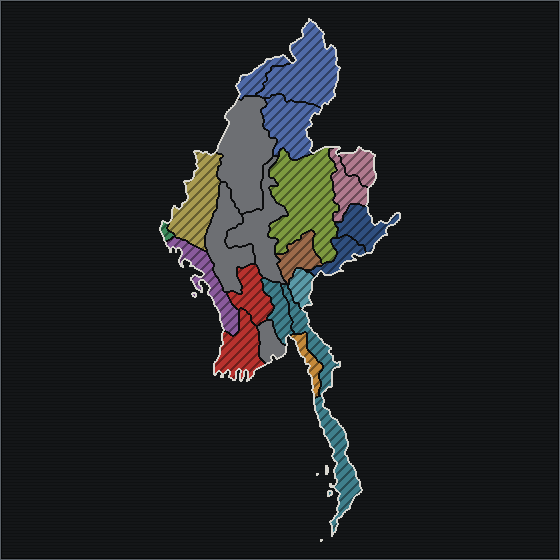
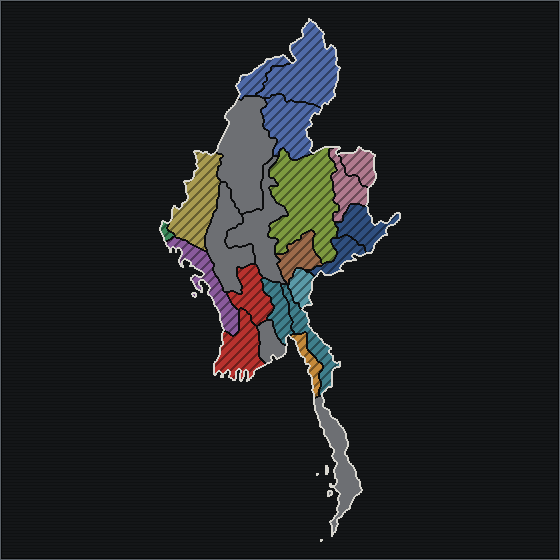
Burma: Loyal status for groups not yet in revolt
- Shan, Kachin and Chin start Loyal (Union grey on the map) until their country appears, then turn Active
- Tanintharyi drawn as Union-held
- Legend row for Loyal

Changed region(s): [[0.5464, 0.6982, 0.6679, 0.9107], [0.5768, 0.9107, 0.6071, 0.9411]]

diff --git a/_tools/burma_struggle_map/build_burma_window.py b/_tools/burma_struggle_map/build_burma_window.py
@@ -129,8 +129,8 @@ def build_gui():
         else:
             n = STATE_GROUP[st["group"]]
             a(button(f"BUR_State_{sid}", f"GFX_BUR_state_{sid}", x, y, f"BUR_GROUP_TT_{n}"))
-    for i, key in enumerate(["ACTIVE", "INTEGRATED", "SUBJUGATED", "AUTONOMOUS", "JOINED_BCP", "UNKNOWN"]):
-        y = MAP_Y + MAP_H - 18 * 6 - 8 + i * 18
+    for i, key in enumerate(["ACTIVE", "INTEGRATED", "SUBJUGATED", "AUTONOMOUS", "JOINED_BCP", "UNKNOWN", "LOYAL"]):
+        y = MAP_Y + MAP_H - 18 * 7 - 8 + i * 18
         a(icon(f"burma_legend_swatch_{i + 1}", "GFX_BUR_legend_swatch", MAP_X + 12, y + 1,
                f"\t\t\tframe = {i + 1}\n"))
         a(text(f"burma_legend_text_{i + 1}", f"BUR_LEG_{key}", MAP_X + 42, y, 300))
@@ -256,16 +256,16 @@ def build_scripted_loc():
             name.append(("has_global_flag = ROC_Victory", "BUR_GROUP_11_PRC"))
         name.append(("", f"BUR_GROUP_{n}"))
         d.append(dt(f"BurmaRowName{n}", name))
-        d.append(dt(f"BurmaRowStatus{n}", [(f"check_variable = {{ global.BUR_status^{n} = {s} }}", f"BUR_GROUP_STATUS_{s}") for s in range(6)]))
+        d.append(dt(f"BurmaRowStatus{n}", [(f"check_variable = {{ global.BUR_status^{n} = {s} }}", f"BUR_GROUP_STATUS_{s}") for s in range(7)]))
         d.append(dt(f"BurmaRowStrength{n}", [(unk, "BUR_UNKNOWN_VALUE"), ("", f"BUR_ROW_STR_{n}")]))
-        d.append(dt(f"BurmaGroupStatusText{n}", [(f"check_variable = {{ global.BUR_status^{n} = {s} }}", f"BUR_GROUP_STATUS_{s}") for s in range(6)]))
+        d.append(dt(f"BurmaGroupStatusText{n}", [(f"check_variable = {{ global.BUR_status^{n} = {s} }}", f"BUR_GROUP_STATUS_{s}") for s in range(7)]))
     sel_unk = "check_variable = { global.BUR_sel_status = 5 }"
     for key in ["Friend", "Burman", "Strength", "Front"]:
         d.append(dt(f"BurmaSel{key}Text", [(sel_unk, "BUR_UNKNOWN_VALUE"), ("", f"BUR_SEL_VAL_{key.upper()}")]))
     d.append(dt("BurmaSelName", [(sel_unk, "BUR_GROUP_UNKNOWN"),
                                  ("check_variable = { global.BUR_selected_group = 11 } has_global_flag = ROC_Victory", "BUR_GROUP_11_PRC")]
                 + [(f"check_variable = {{ global.BUR_selected_group = {n} }}", f"BUR_GROUP_{n}") for n in range(1, 13)]))
-    d.append(dt("BurmaSelectedGroupStatus", [(f"check_variable = {{ global.BUR_sel_status = {s} }}", f"BUR_GROUP_STATUS_{s}") for s in range(6)]))
+    d.append(dt("BurmaSelectedGroupStatus", [(f"check_variable = {{ global.BUR_sel_status = {s} }}", f"BUR_GROUP_STATUS_{s}") for s in range(7)]))
     d.append(dt("BurmaKmtTTBody", [("check_variable = { global.BUR_status^11 = 5 }", "BUR_GROUP_TT_11_UNKNOWN"),
                                    ("", "BUR_GROUP_TT_11_STATS")]))
     for label, key in ACTIONS:

diff --git a/_tools/burma_struggle_map/build_burma_map.py b/_tools/burma_struggle_map/build_burma_map.py
@@ -37,7 +37,7 @@ GROUPS = {
     "Kachin": "#4f6aa8", "Chin": "#a89a4f", "Kuomintang": "#2f4f7f", "Pa-O": "#9c6a4a",
 }
 STATES = {
-    1263: "Communists", 1558: "Communists", 1264: "Karen", 1267: "Karen", 1212: "Karen",
+    1263: "Communists", 1558: "Communists", 1264: "Karen", 1267: "Karen", 1212: None,
     1265: "Karenni", 1266: "Mon", 1190: "Shan", 1186: "Arakanese", 1559: "Rohingya",
     1985: "Kokang", 1964: "Kokang", 640: "Kachin", 1817: "Kachin", 1896: "Kachin",
     1260: "Chin", 788: "Kuomintang", 787: "Kuomintang", 1996: "Pa-O",
@@ -186,8 +186,8 @@ def write_window_swatches():
     groups.append(UNKNOWN + (255,))
     swatch_strip(groups, 12, 12).save(win / "BUR_group_swatch.png")
     lw, lh = 22, 14
-    sample = frame_colours("Mon", lh, lw)[:6]
-    strip = np.zeros((lh, lw * 6, 4), np.uint8)
+    sample = frame_colours("Mon", lh, lw)
+    strip = np.zeros((lh, lw * 7, 4), np.uint8)
     for i, col in enumerate(sample):
         tile = np.array(col, np.float32)
         tile[0, :] = tile[-1, :] = tile[:, 0] = tile[:, -1] = BORDER_LIGHT
